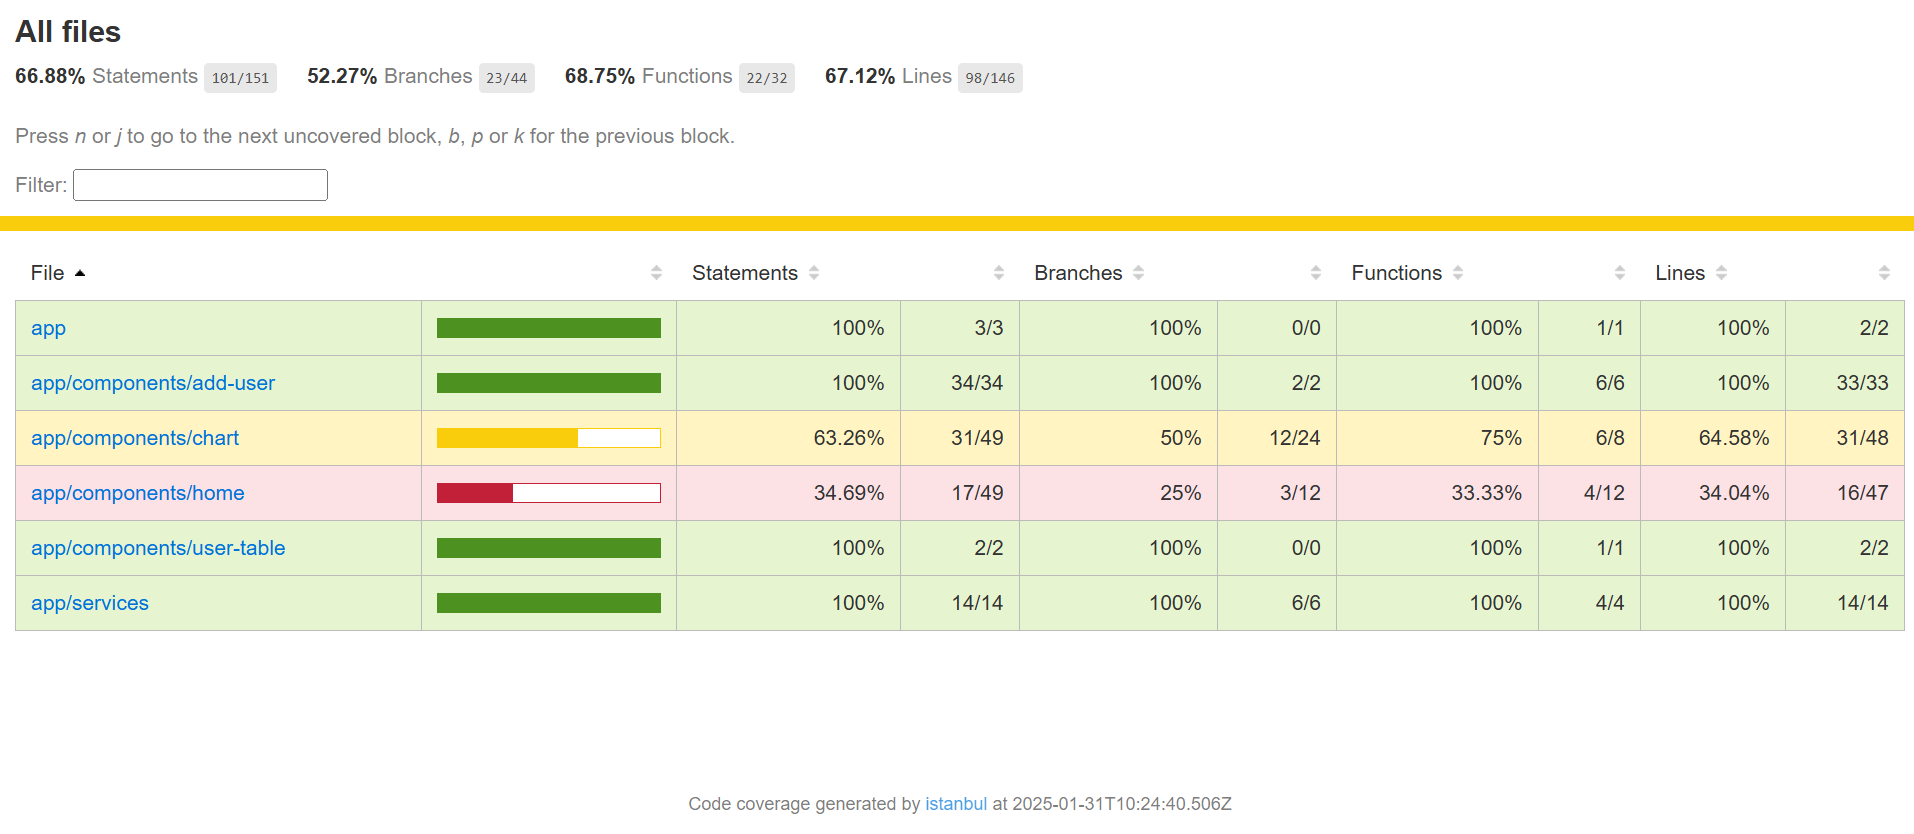
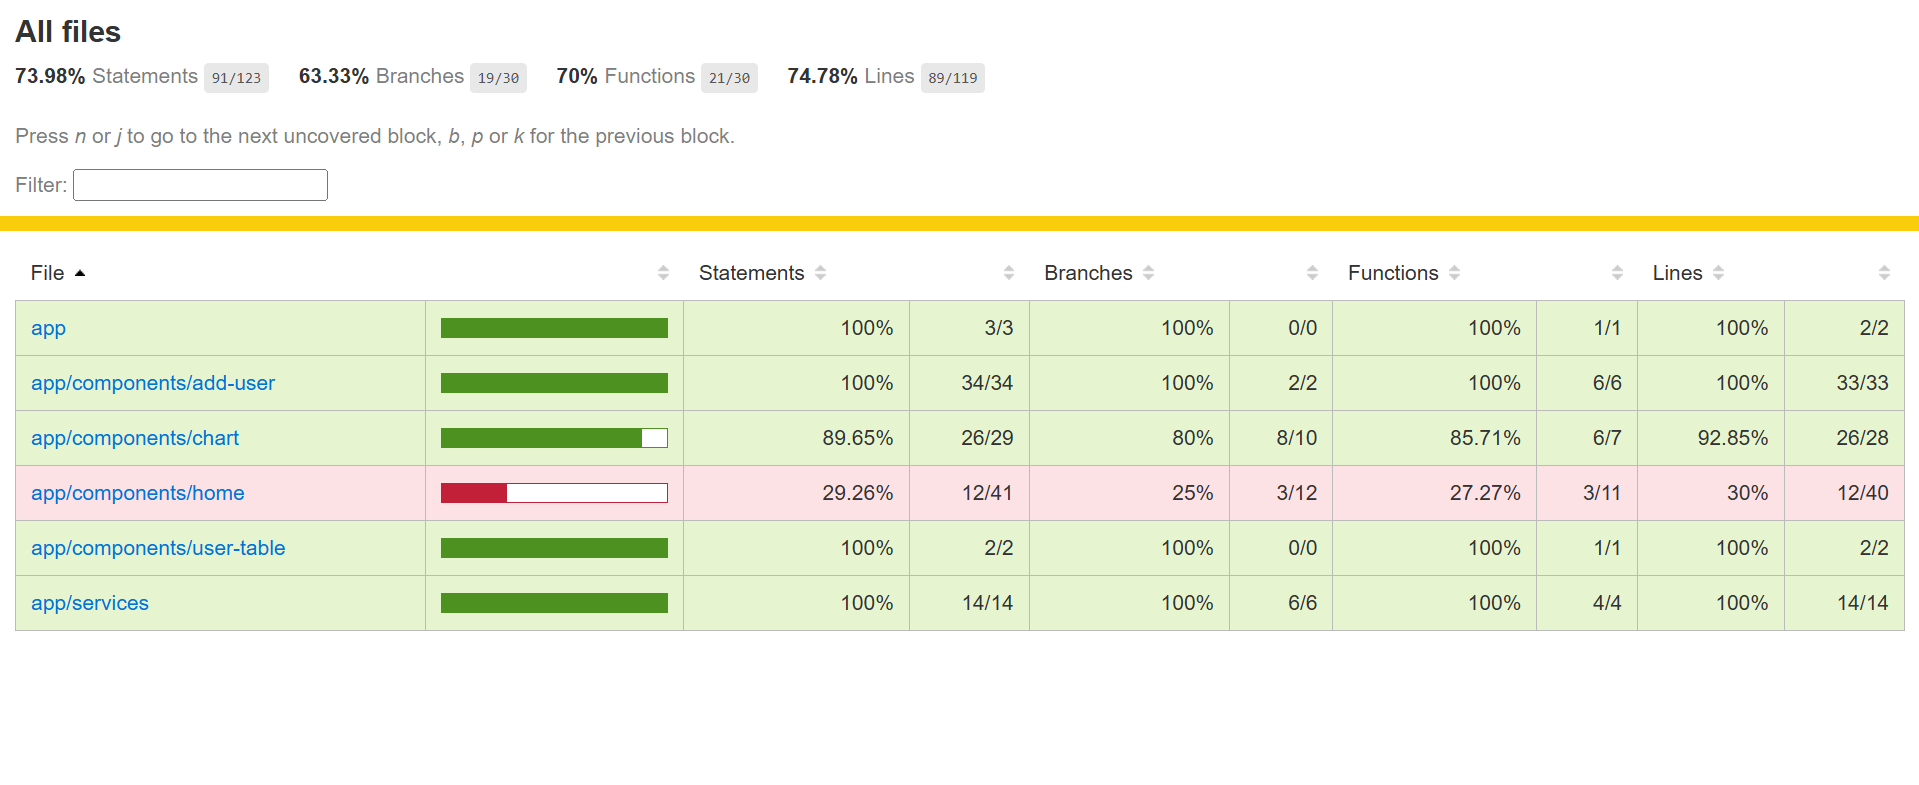
code cleanup

diff --git a/src/app/components/chart/chart.component.ts b/src/app/components/chart/chart.component.ts
@@ -1,4 +1,11 @@
-import { Component, Input, OnInit, SimpleChanges, Inject, PLATFORM_ID } from '@angular/core';
+import {
+  Component,
+  Input,
+  OnInit,
+  SimpleChanges,
+  Inject,
+  PLATFORM_ID,
+} from '@angular/core';
 import { ChartModule } from 'primeng/chart';
 import { TableModule } from 'primeng/table';
 import { User } from '../../models/user.model';
@@ -16,15 +23,12 @@ export class ChartComponent implements OnInit {
   selectedUser: User | null = null;
   chartData: any;
   chartOptions: any;
-  usernames: string[] = [];
-  previousSelection: User | null = null;
 
   constructor(@Inject(PLATFORM_ID) private platformId: Object) {}
 
   ngOnInit(): void {
     if (this.users.length > 0) {
       this.selectedUser = this.users[0];
-      this.previousSelection = this.selectedUser;
       this.updateChart();
     }
     if (isPlatformBrowser(this.platformId)) {
@@ -35,43 +39,16 @@ export class ChartComponent implements OnInit {
   ngOnChanges(changes: SimpleChanges): void {
     if (changes['users']) {
       const currentUsers: User[] = changes['users'].currentValue || [];
-      const previousUsers: User[] = changes['users'].previousValue || [];
 
-      if (!previousUsers || previousUsers.length === 0) {
+      if (currentUsers.length > 0) {
         this.selectedUser = currentUsers[0];
-        this.updateChart();
-        return;
-      }
-
-      if (this.selectedUser) {
-        const updatedUser = currentUsers.find(
-          (user: User) => user.userName === this.selectedUser?.userName
-        );
-
-        if (updatedUser) {
-          this.selectedUser = updatedUser;
-        } else if (currentUsers.length > previousUsers.length) {
-          this.selectedUser = currentUsers[0];
-        }
-      } else if (currentUsers.length > 0) {
-        this.selectedUser = currentUsers[0];
-      }
-
-      if (this.selectedUser) {
         this.updateChart();
       }
     }
   }
 
   onUserSelect(event: User | null): void {
-    if (!event) {
-      if (this.previousSelection) {
-        this.selectedUser = this.previousSelection;
-      }
-    } else {
-      this.selectedUser = event;
-      this.previousSelection = event;
-    }
+    this.selectedUser = event;
     this.updateChart();
   }
 

diff --git a/src/app/components/home/home.component.ts b/src/app/components/home/home.component.ts
@@ -32,10 +32,8 @@ import { ChartComponent } from '../chart/chart.component';
   providers: [UserService],
 })
 export class HomeComponent {
-  users: User[] = []; //to store new user
-  filteredUsers: User[] = []; //to store final operated user
-  userNameList: string[] = [];
-  selectedUser: string = '';
+  users: User[] = [];
+  filteredUsers: User[] = [];
   workoutTypes: WorkoutCategory[] = [
     { name: 'All types', code: 'All types' },
     { name: 'Yoga', code: 'Yoga' },
@@ -52,8 +50,6 @@ export class HomeComponent {
     if (savedUsers && savedUsers.length > 0) {
       this.users = savedUsers;
       this.filteredUsers = [...this.users];
-      this.userNameList = this.users?.map((user) => user.userName);
-      this.selectedUser = this.userNameList[0];
     }
   }
 
@@ -95,7 +91,6 @@ export class HomeComponent {
       this.users.unshift(existingUser);
       this.users = [...this.users];
 
-      this.selectedUser = existingUser.userName;
     } else {
       const newUser = {
         userName: user.userName,
@@ -106,8 +101,6 @@ export class HomeComponent {
       };
       this.users = [newUser, ...this.users];
 
-      this.userNameList.unshift(newUser.userName);
-      this.selectedUser = newUser.userName;
     }
 
     this.filterUsers();
